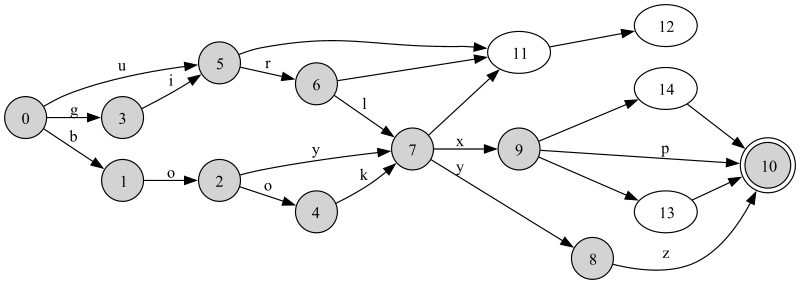
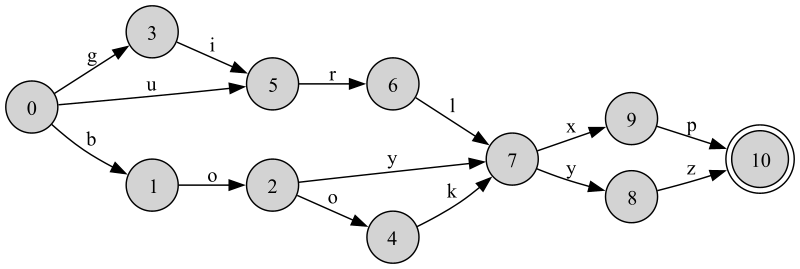
refactoring the code

diff --git a/src/main/java/org/example/PavanGraph.java b/src/main/java/org/example/PavanGraph.java
@@ -98,7 +98,11 @@ public class PavanGraph {
         Collection<MutableNode> n = graph.nodes();
         for (MutableNode node : n) {
             Label labl = node.name();
-            if (labl.toString().equals(label)) {
+
+            //refactor 1 using extract variable
+            boolean temp = labl.toString().equals(label);
+            //end of refactor 1
+            if (temp) {
                 return node;
             }
         }
@@ -123,6 +127,11 @@ public class PavanGraph {
         }
     }
 
+    //refactor 2 using Extract method
+    public static void outputgraphicshelper(Format gf , File outputFile) throws IOException {
+        Graphviz.fromGraph(graph).width(800).render(gf).toFile(outputFile);
+    }
+
 
     public static void outputGraphics(String path, String format) {
         Format graphFormat = Format.PNG;
@@ -132,7 +141,7 @@ public class PavanGraph {
 
         File outputFile = new File(path);
         try {
-            Graphviz.fromGraph(graph).width(800).render(graphFormat).toFile(outputFile);
+            outputgraphicshelper(graphFormat,outputFile);
         } catch (IOException e) {
             e.printStackTrace();
         }
@@ -173,11 +182,18 @@ public class PavanGraph {
 
     }
 
+    //refactoring 3 using Extract Method
+    public static String AddQuotes(String input)
+    {
+        String output = "\"" + input + "\"";
+        return output;
+    }
+
     public static void removeEdge(String src, String dst,String filename)
     {
         File file = new File(filename);
-        String quotedsrc = "\"" + src + "\"";
-        String quoteddst = "\"" + dst + "\"";
+        String quotedsrc = AddQuotes(src);
+        String quoteddst = AddQuotes(dst);
         File tempFile = new File("tempFile.dot"); // Temporary file to store modified content
 
         try (BufferedReader reader = new BufferedReader(new FileReader(file));
@@ -185,7 +201,10 @@ public class PavanGraph {
 
             String line;
             while ((line = reader.readLine()) != null) {
-                if(!(line.contains(quotedsrc) && line.contains(quoteddst)))
+                //refactor 4 using Extract variable
+                boolean checkvalid = !(line.contains(quotedsrc) && line.contains(quoteddst));
+
+                if(checkvalid)
                 {
                     writer.write(line + System.lineSeparator());
                 }
@@ -283,7 +302,9 @@ public class PavanGraph {
                 LinkTarget t = l.to();
                 String lb= t.name().toString();
                 currentpath.add(Integer.parseInt(lb));
-                if(!visiteddfs[Integer.parseInt(lb)] && GraphSearchDFS(lb,dst,currentpath))
+                //refactor 5 using Extract variable
+                boolean check = !visiteddfs[Integer.parseInt(lb)] && GraphSearchDFS(lb,dst,currentpath);
+                if(check)
                 {
                     path = currentpath;
                     exist = true;
@@ -320,7 +341,7 @@ public class PavanGraph {
 //            graphObject.addEdge("13", "10");
 //            graphObject.addEdge("14", "10");
 
-            graphObject.removeNodes(set_of_labels,"output.dot");
+
 
 
 
@@ -329,19 +350,13 @@ public class PavanGraph {
             graphObject.outputGraphics("output2.png", "png");
 
             int n = graphObject.graph.nodes().size();
-            boolean[] visited = new boolean[n];
-            String[] adj = new String[n];
-
-            for (int i = 0; i < visited.length; i++) {
-                visited[i] = false;
-            }
-            Queue<String> q = new ArrayDeque<>();
             Path p = new Path(n);
-//
-            p.GraphSearch("8","9", Path.Level.BFS);
 
-            graphObject.parseGraph("output.dot");
-            graphObject.outputGraphics("output2.png", "png");
+            p.GraphSearch("0","9", Path.Level.DFS);
+            System.out.println(p.path);
+//
+//            graphObject.parseGraph("output.dot");
+//            graphObject.outputGraphics("output2.png", "png");
         } catch (IOException e) {
             e.printStackTrace();
         }
